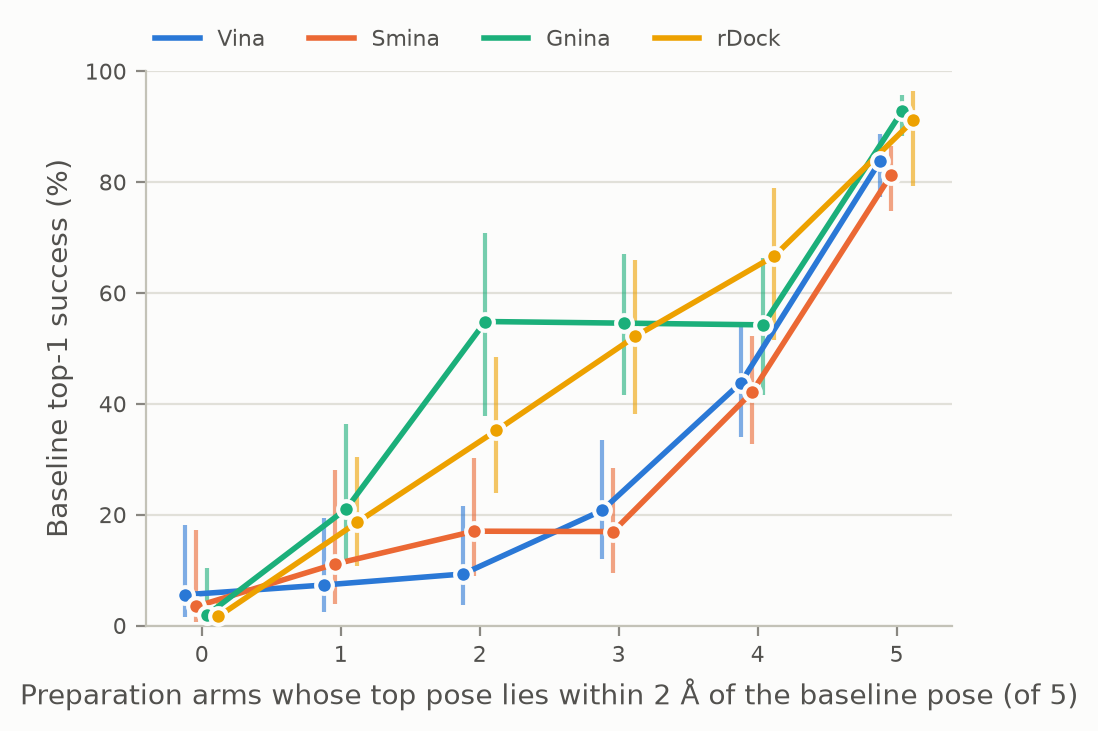
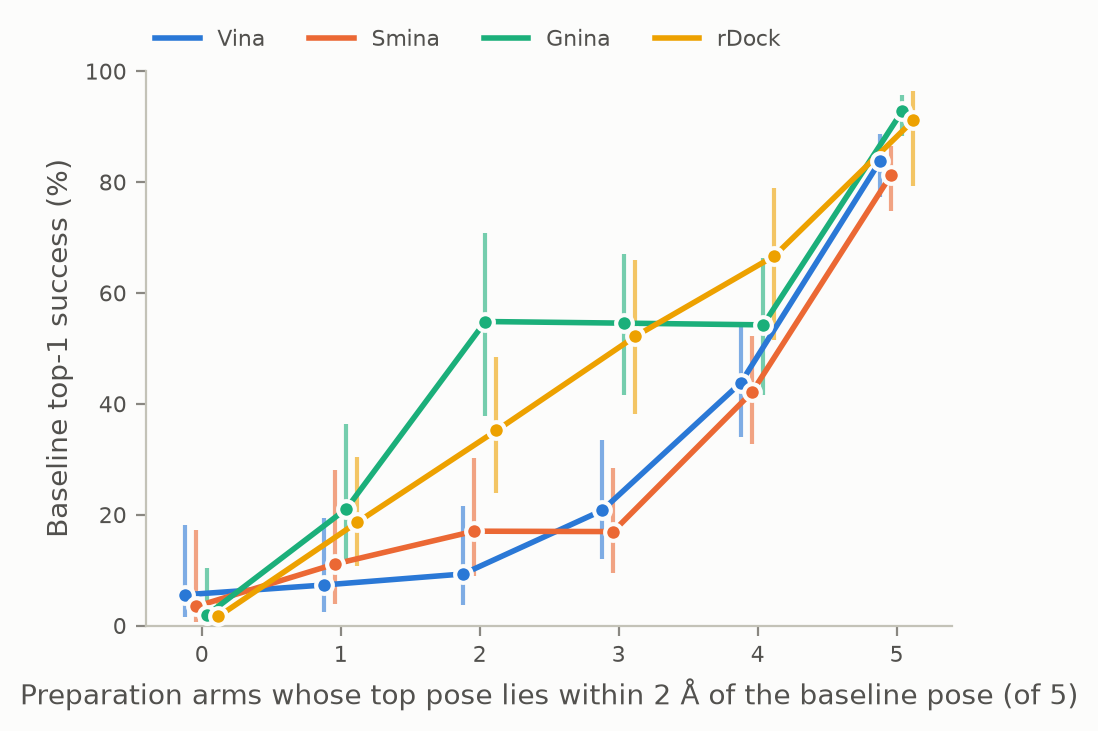
Figures 2 and 3: remove gridlines

diff --git a/src/dockprepbench/analysis/figures.py b/src/dockprepbench/analysis/figures.py
@@ -158,7 +158,6 @@ def plot_engine_arms(summary: pd.DataFrame, path_stem: Path) -> list[Path]:
     n = int(shown["n"].max()) if "n" in shown else None
     of = f" (% of {n} complexes)" if n else " (%)"
     ax.set_xlabel(f"Top-1 success, RMSD < 2 Å{of}", color=INK_SECONDARY)
-    ax.grid(axis="x", color=GRID, lw=0.8)
     _legend_above(ax, ncol=len(engines))
     return _save(fig, path_stem)
 
@@ -290,7 +289,6 @@ def plot_agreement_levels(levels: pd.DataFrame, path_stem: Path) -> list[Path]:
         color=INK_SECONDARY,
     )
     ax.set_ylabel("Baseline top-1 success (%)", color=INK_SECONDARY)
-    ax.grid(axis="y", color=GRID, lw=0.8)
     _legend_above(ax, ncol=len(engines))
     return _save(fig, path_stem)
 
